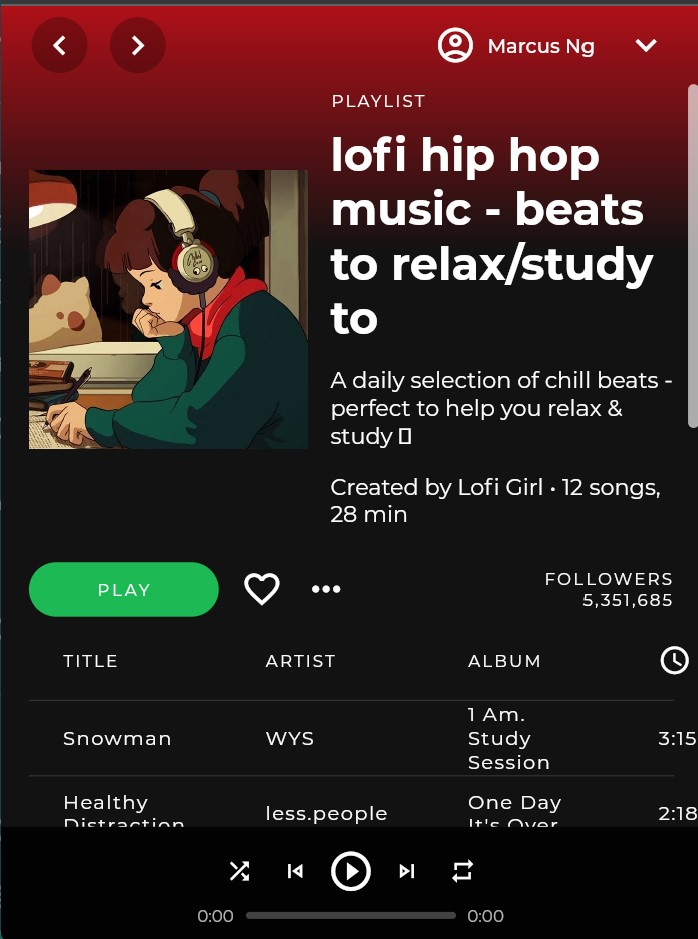
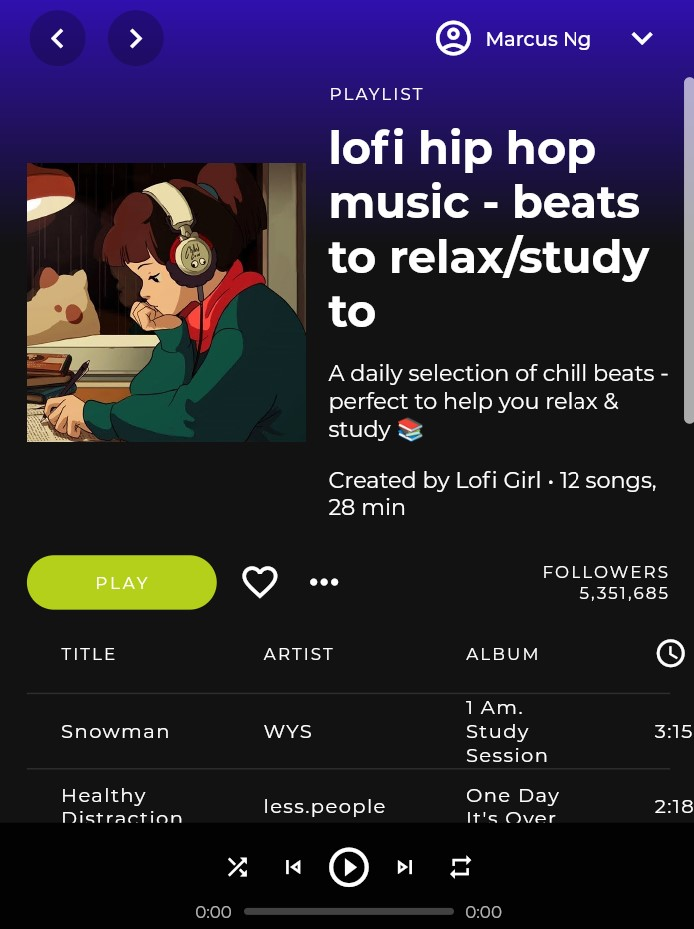
All new

diff --git a/lib/main.dart b/lib/main.dart
@@ -34,7 +34,7 @@ class MyApp extends StatelessWidget {
         scaffoldBackgroundColor: const Color(0xFF121212),
         backgroundColor: const Color(0xFF121212),
         primaryColor: Colors.black,
-        accentColor: const Color(0xFF1DB954),
+        accentColor: const Color(0xFFB5D01B),
         iconTheme: const IconThemeData().copyWith(color: Colors.white),
         fontFamily: 'Montserrat',
         textTheme: TextTheme(

diff --git a/lib/screens/playlist_screen.dart b/lib/screens/playlist_screen.dart
@@ -99,7 +99,7 @@ class _PlaylistScreenState extends State<PlaylistScreen> {
             begin: Alignment.topCenter,
             end: Alignment.bottomCenter,
             colors: [
-              const Color(0xFFAF1018),
+              Color.fromARGB(255, 48, 16, 175),
               Theme.of(context).backgroundColor,
             ],
             stops: const [0, 0.3],

diff --git a/README.md b/README.md
@@ -4,4 +4,4 @@ Fully responsive
 ![Desktop Mode](/template/spotify-music.jpg)
 ![Mobile Mode](/template/resposive.jpg)
 
-[YouTube Tutorial](https://youtu.be/HJ1AlSrgZVQ)
+<!-- [YouTube Tutorial](https://youtu.be/HJ1AlSrgZVQ) -->
